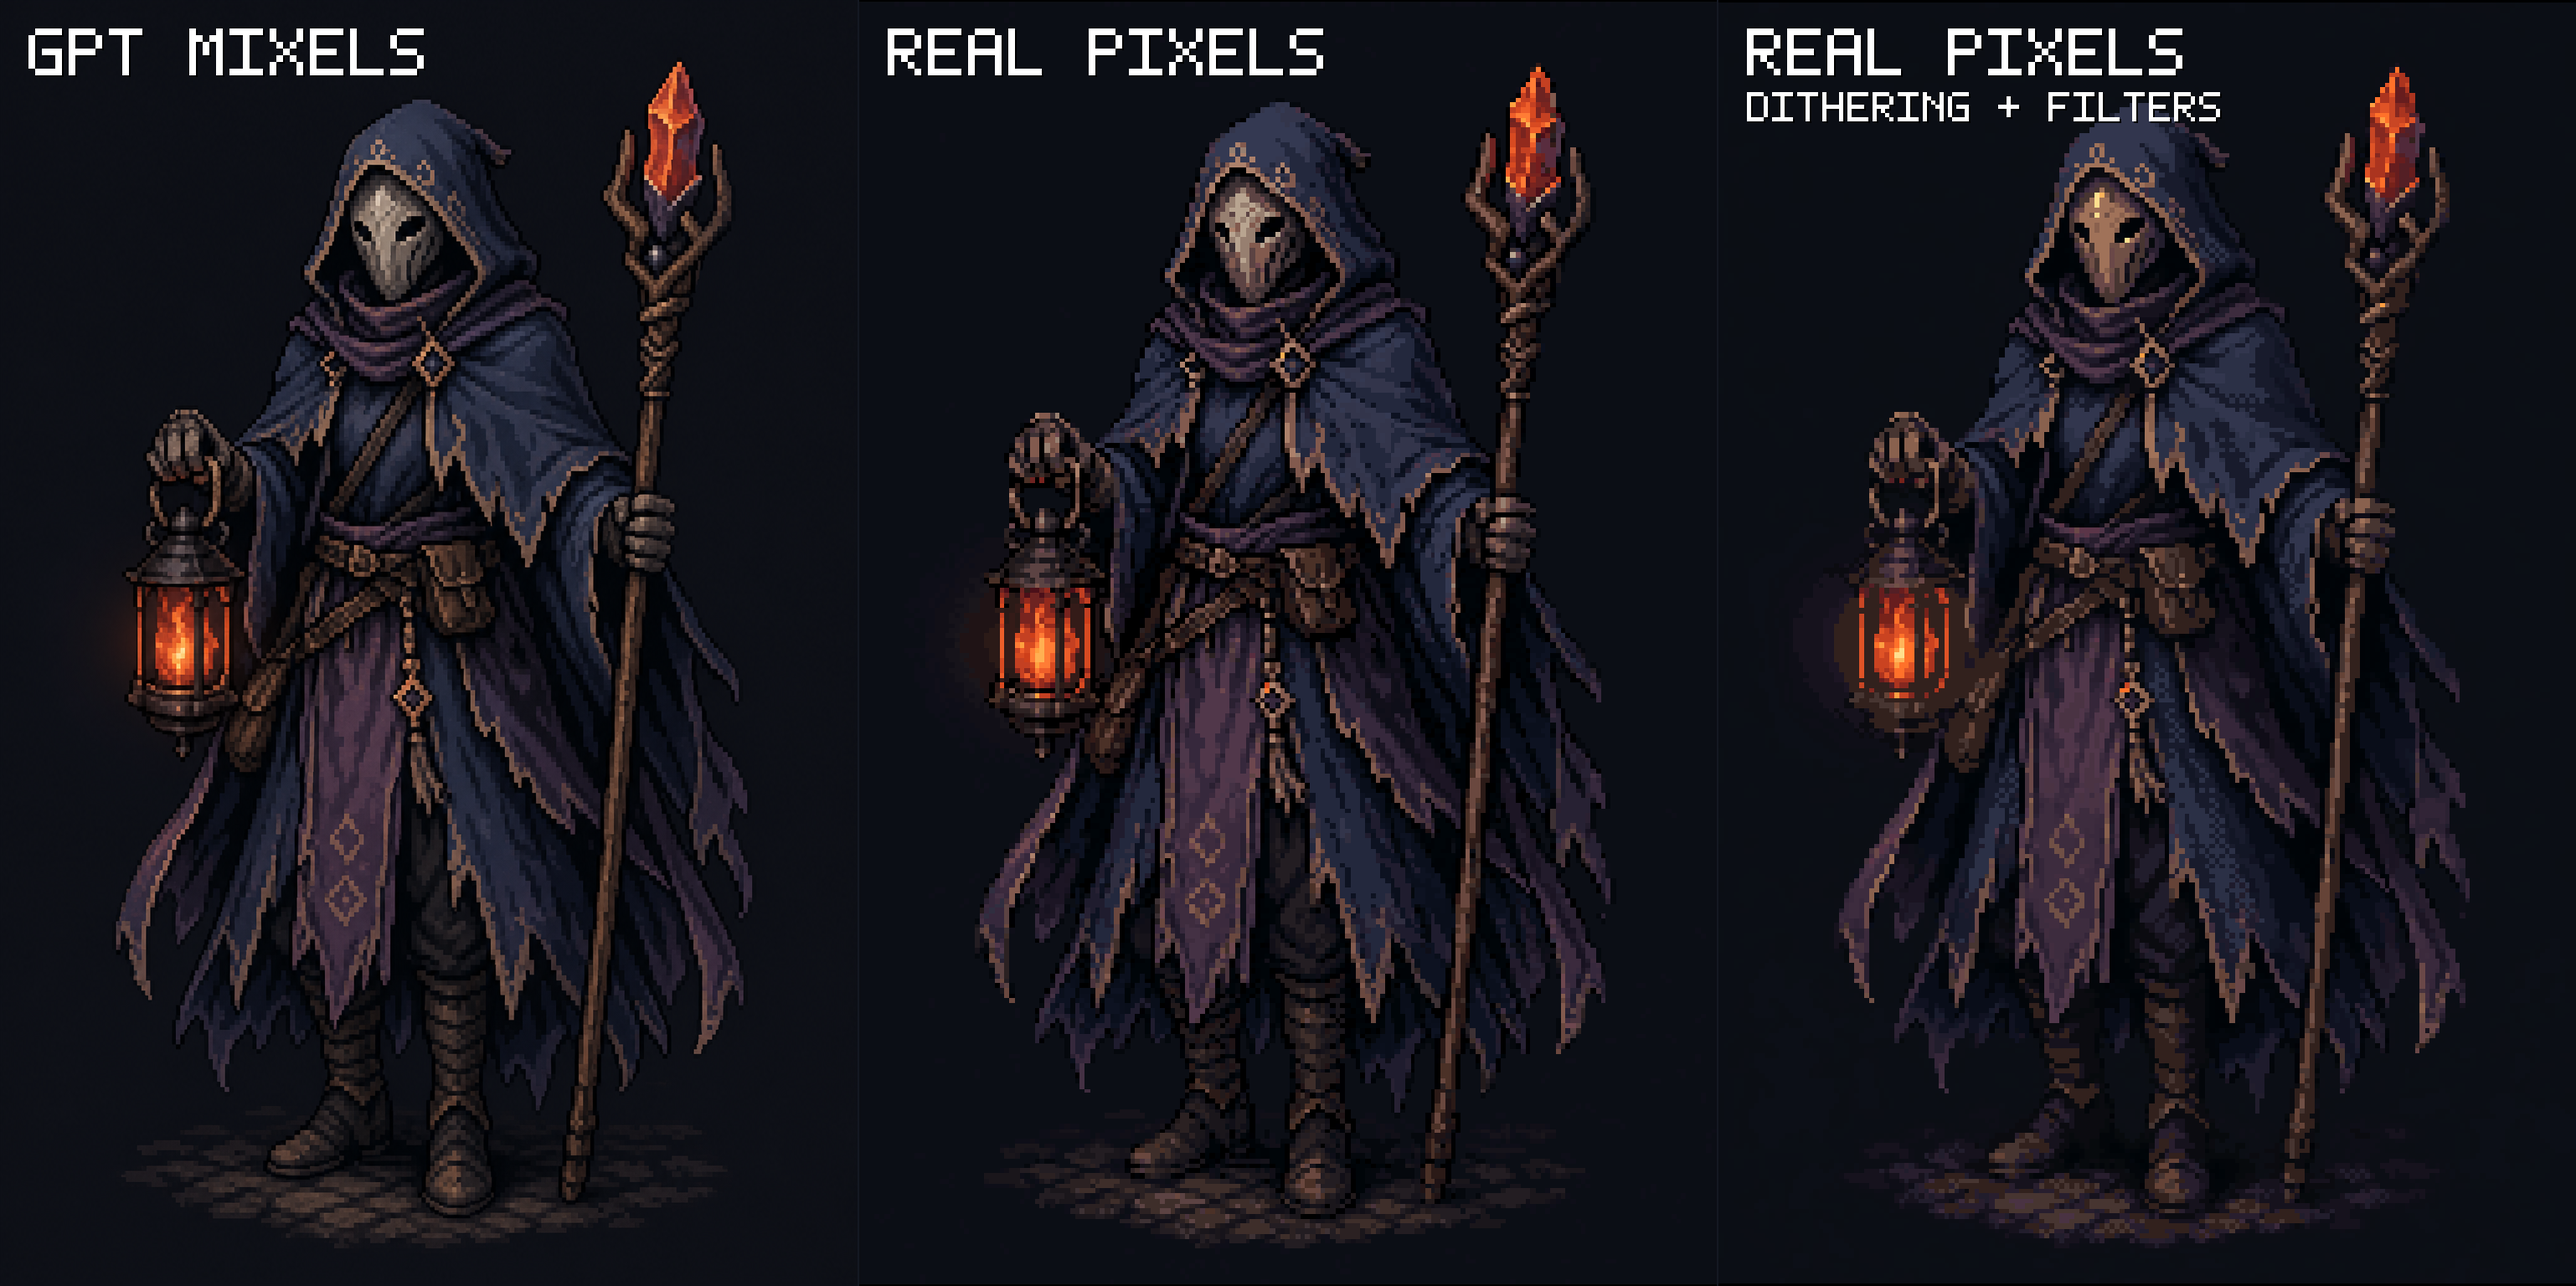
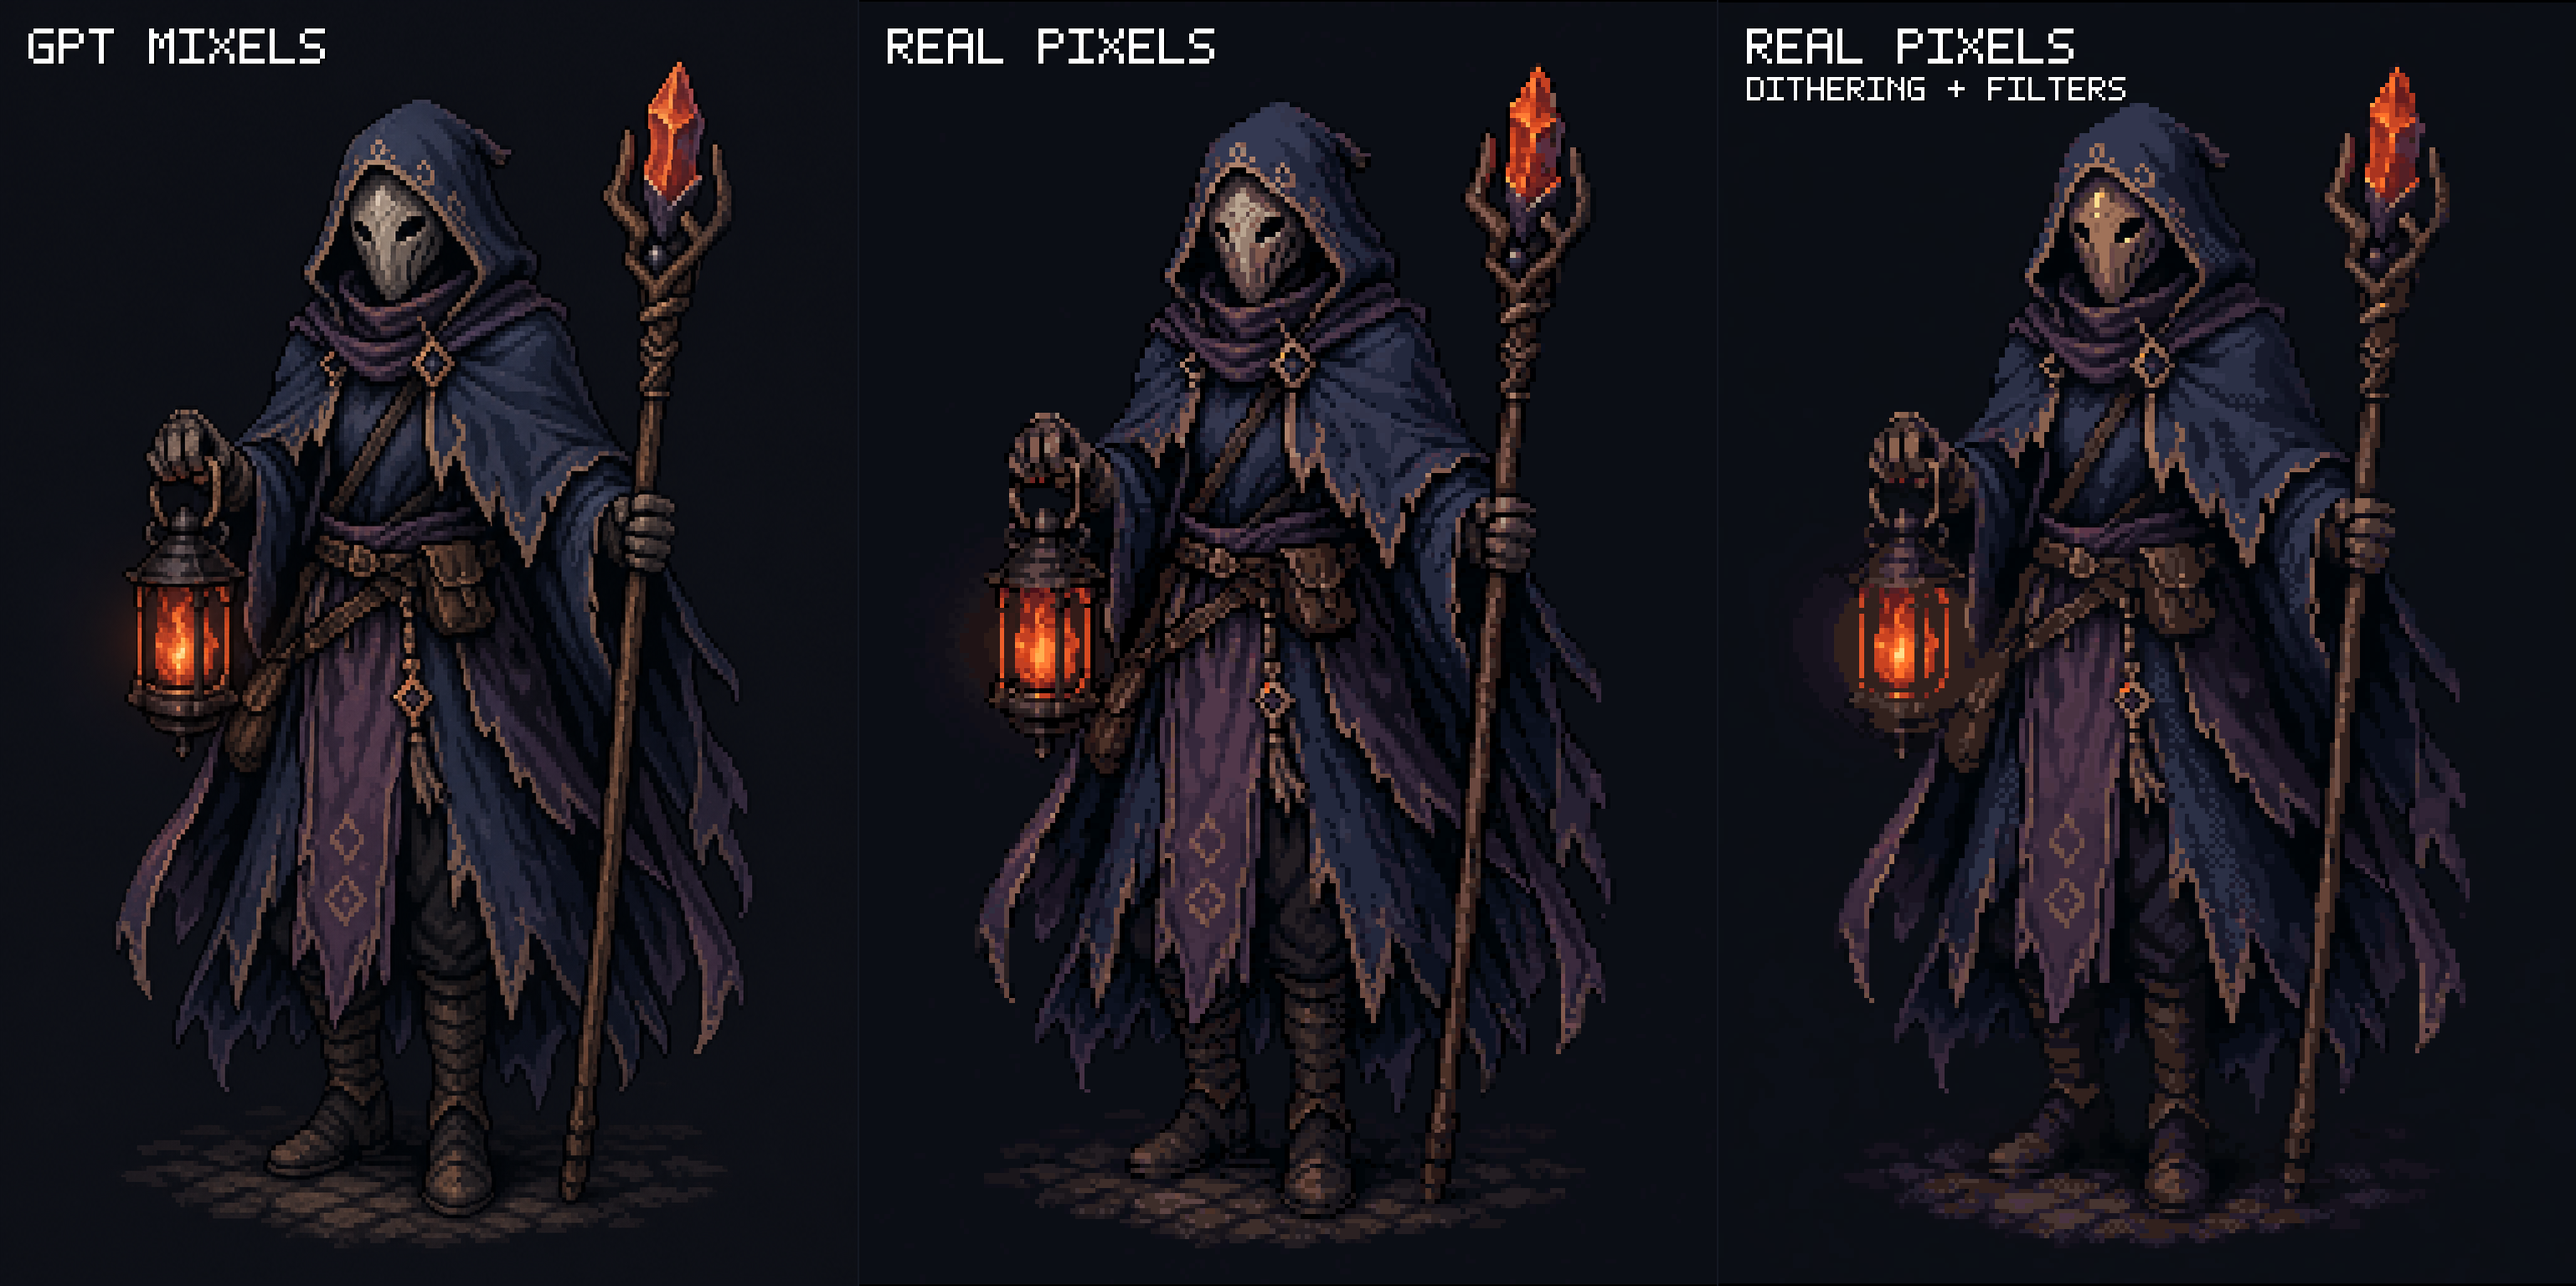
Show labeled comparison in README

Changed region(s): [[0.6554, 0.0, 0.8739, 0.0938], [0.3433, 0.0, 0.5306, 0.0625], [0.0, 0.0, 0.156, 0.0625]]

diff --git a/README.md b/README.md
@@ -4,6 +4,8 @@ Local browser tool for converting AI-generated or faux pixel art into a strict p
 
 It is designed for agent/operator work: an agent starts the local service, the operator imports one image, tunes the live preview, and exports the result.
 
+![GPT mixels converted to real pixel art comparison](docs/examples/gpt-character-generation-original-v2-v1-comparison.png)
+
 ## Features
 
 - Hidden-grid transfer for GPT/imagegen "mixel" art.
